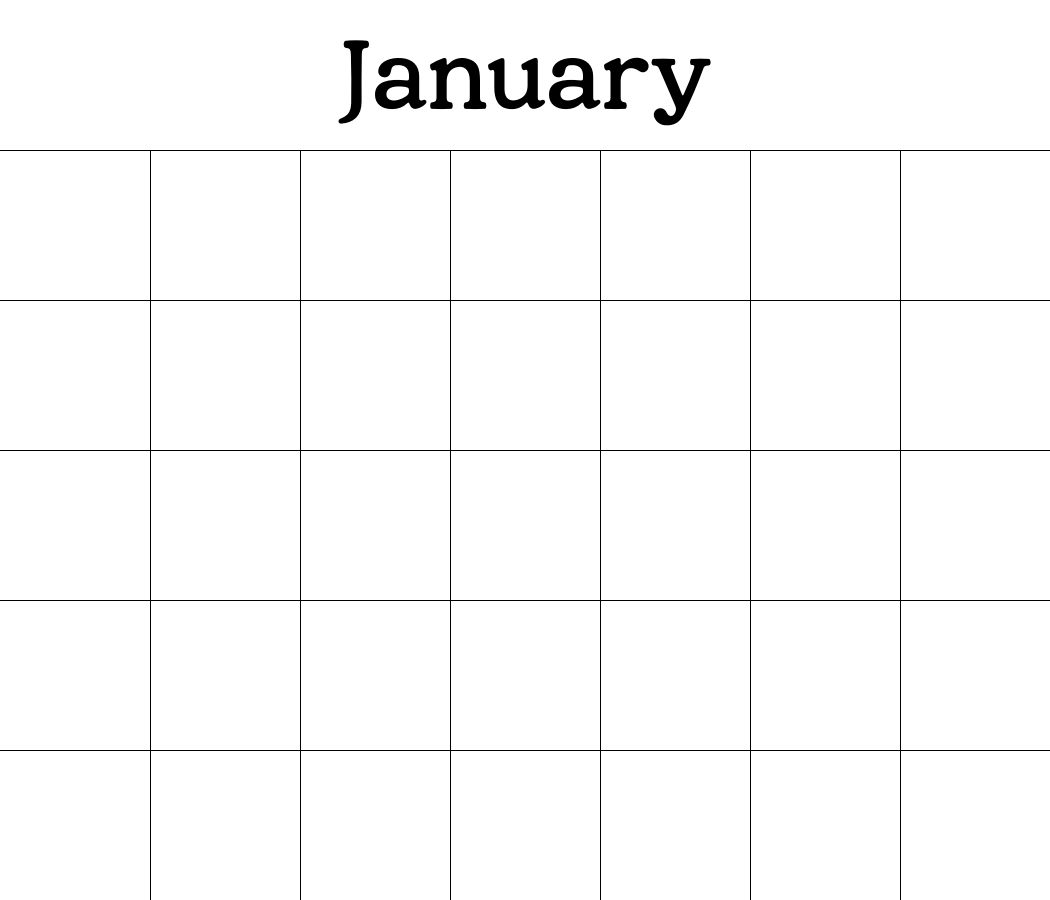
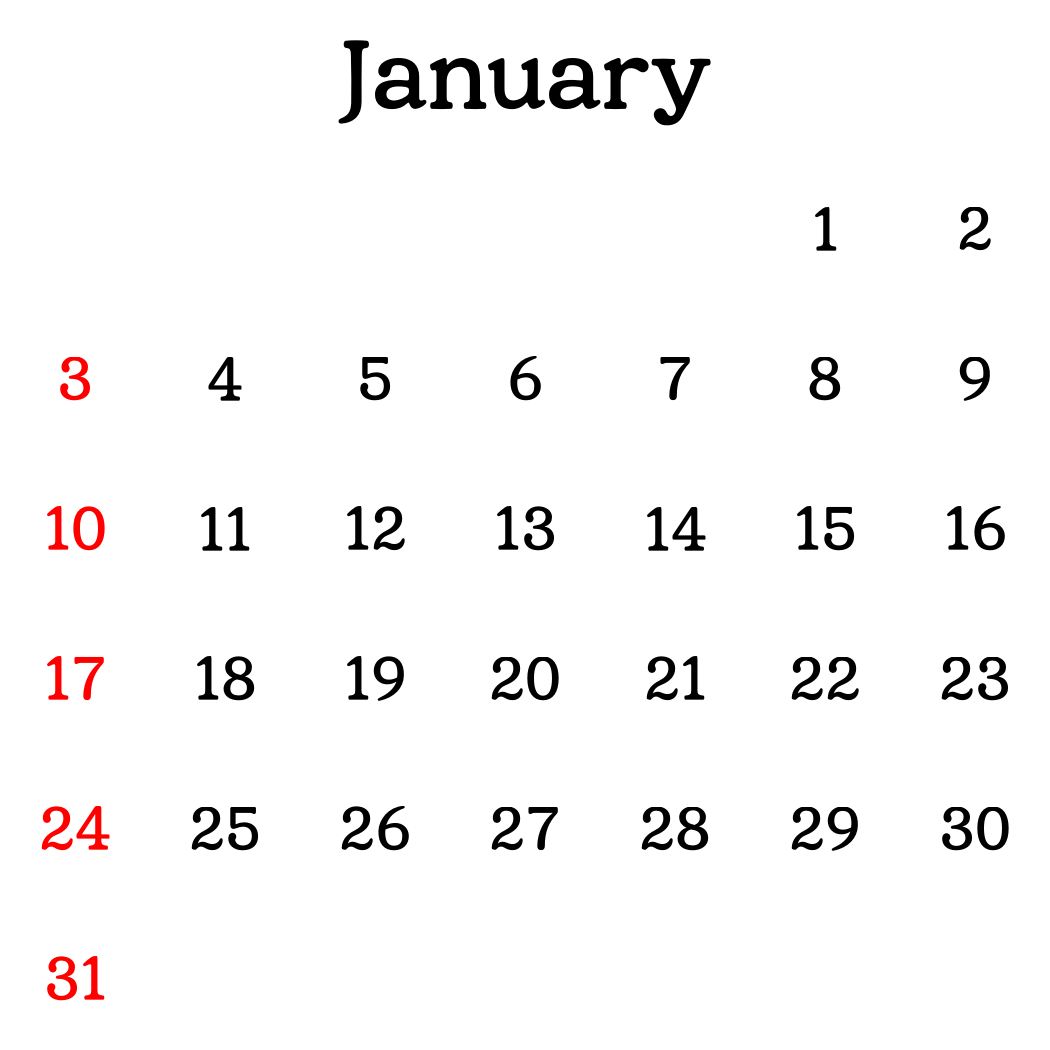
add: now adds dates properly

diff --git a/main.py b/main.py
@@ -1,4 +1,4 @@
-from PIL import Image, ImageFont
+from PIL import Image, ImageFont, ImageDraw
 import argparse
 from utils import get_dict_from_yml, draw_blank_canvas, make_transparency_mask, write_month_title, draw_lines
 import datetime
@@ -13,35 +13,50 @@ Sunday == 6
 """
 
 
-def create_calendar(year, font_file, country, lang):
+def create_calendar(year, font_file, country, lang, draw_line):
     config_dict = get_dict_from_yml("config.yml")
     cell_dim = 150
     date_util = DateUtil(country=country)
-    FONT_SIZE = 100
-    font = ImageFont.truetype(font_file, FONT_SIZE)
+    TITLE_FONT_SIZE = 100
+    title_font = ImageFont.truetype(font_file, TITLE_FONT_SIZE)
+
+    CELL_FONT_SIZE = 60
+    cell_font = ImageFont.truetype(font_file, CELL_FONT_SIZE)
 
     for m in range(1, 13):
         month_name = config_dict['language'][lang]['months'][m]
         canvas_np = draw_blank_canvas(cell_dim=cell_dim)
         canvas_img = Image.fromarray(canvas_np.astype('uint8'), 'RGB')
-        canvas_img = draw_lines(canvas_img)
-        canvas_img = write_month_title(title=month_name, canvas_img=canvas_img, img_font=font)
+        if draw_line:
+            canvas_img = draw_lines(canvas_img)
+        canvas_img = write_month_title(title=month_name, canvas_img=canvas_img, img_font=title_font)
 
-        # n_days = config_dict['days'][m]
-        # if m == 2 and date_util.is_leap_year(year):
-        #     n_days += 1
-        #
-        # for d in n_days:
-        #     date = datetime.datetime(year, m, d)
-        #     weekday = date.weekday()
-        #     if weekday == 6:  # If Sunday
-        #         # TODO: Write in red
-        #         pass
-        #
-        #
-        #     elif date == date_util.is_holiday(date=(year, m, d)):
-        #         # TODO: Write in red
-        #         pass
+        draw = ImageDraw.Draw(canvas_img)
+
+        n_days = config_dict['days'][m]
+        if m == 2 and date_util.is_leap_year(year):
+            n_days += 1
+
+        week = 1
+        weekdays = [6, 0, 1, 2, 3, 4, 5]
+        for d in range(1, n_days + 1):
+            date = datetime.datetime(year, m, d)
+            weekday = date.weekday()
+            fill = (0, 0, 0)
+            if weekday == 6 or date == date_util.is_holiday(date=(year, m, d)):  # If Sunday
+                # TODO: Write in red
+                fill = (255, 0, 0)
+
+            date_text = f"{d}"
+            text_width, text_height = cell_font.getsize(date_text)
+            cell_corner_x = weekdays.index(weekday) * cell_dim
+            cell_corner_y = week * cell_dim
+
+            x = cell_corner_x +  cell_dim//2 - text_width // 2
+            y = cell_corner_y +  cell_dim//2 -  text_height // 2
+            draw.text(xy=(x, y), text=date_text, font=cell_font, fill=fill)
+            if weekday == 5:  # change to new row when saturday is hit
+                week += 1
 
         calendar_done_np = np.array(canvas_img)
 
@@ -61,12 +76,14 @@ if __name__ == '__main__':
     ap.add_argument("--font", type=str, default="SDKukdetopokki-aLt.otf")
     ap.add_argument("--country", type=str, default="KR", help="two character country id string")
     ap.add_argument("--lang", type=str, default="EN", help="Korean: KR, English: EN, French: FR")
+    ap.add_argument("--draw_line", action='store_true')
     args = vars(ap.parse_args())
 
     year = args["year"]
     font = args["font"]
     country = args["country"]
     lang = args["lang"]
+    draw_line = args["draw_line"]
 
     font_file = os.path.join("fonts", font)
-    create_calendar(year=year, font_file=font_file, country=country, lang=lang)
+    create_calendar(year=year, font_file=font_file, country=country, lang=lang, draw_line=draw_line)

diff --git a/utils.py b/utils.py
@@ -4,14 +4,14 @@ from PIL import ImageDraw
 
 
 def draw_blank_canvas(cell_dim):
-    ROWS = 6  # 6 rows: title row + row per 5 weeks in a month
+    ROWS = 7  # 6 rows: title row + row per max of 6 weeks in a month
     COLS = 7  # 7 days in a week
     canvas = np.ones((cell_dim * ROWS, cell_dim * COLS, 3)) * 255
     return canvas
 
 
 def draw_lines(canvas_img):
-    ROWS = 6  # 6 rows: title row + row per 5 weeks in a month
+    ROWS = 7  # 6 rows: title row + row per 5 weeks in a month
     COLS = 7  # 7 days in a week
 
     draw = ImageDraw.Draw(canvas_img)
